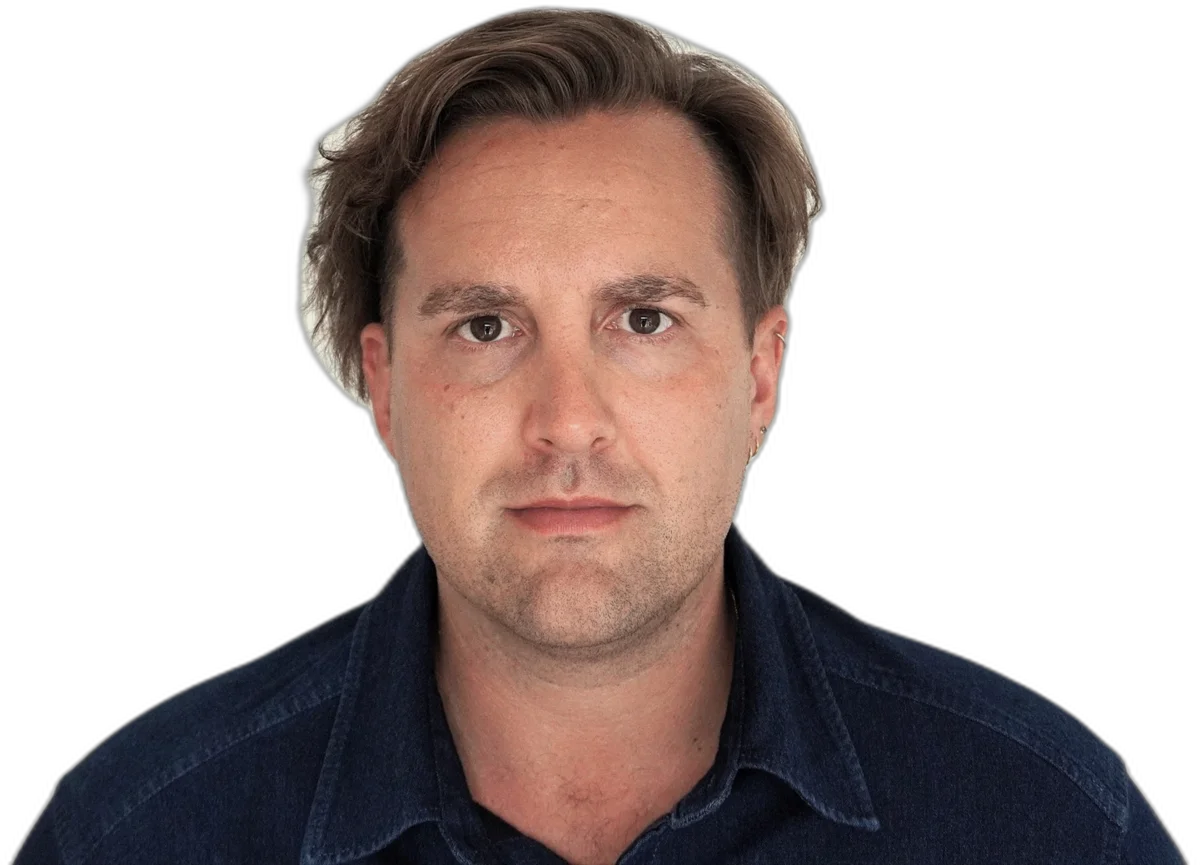
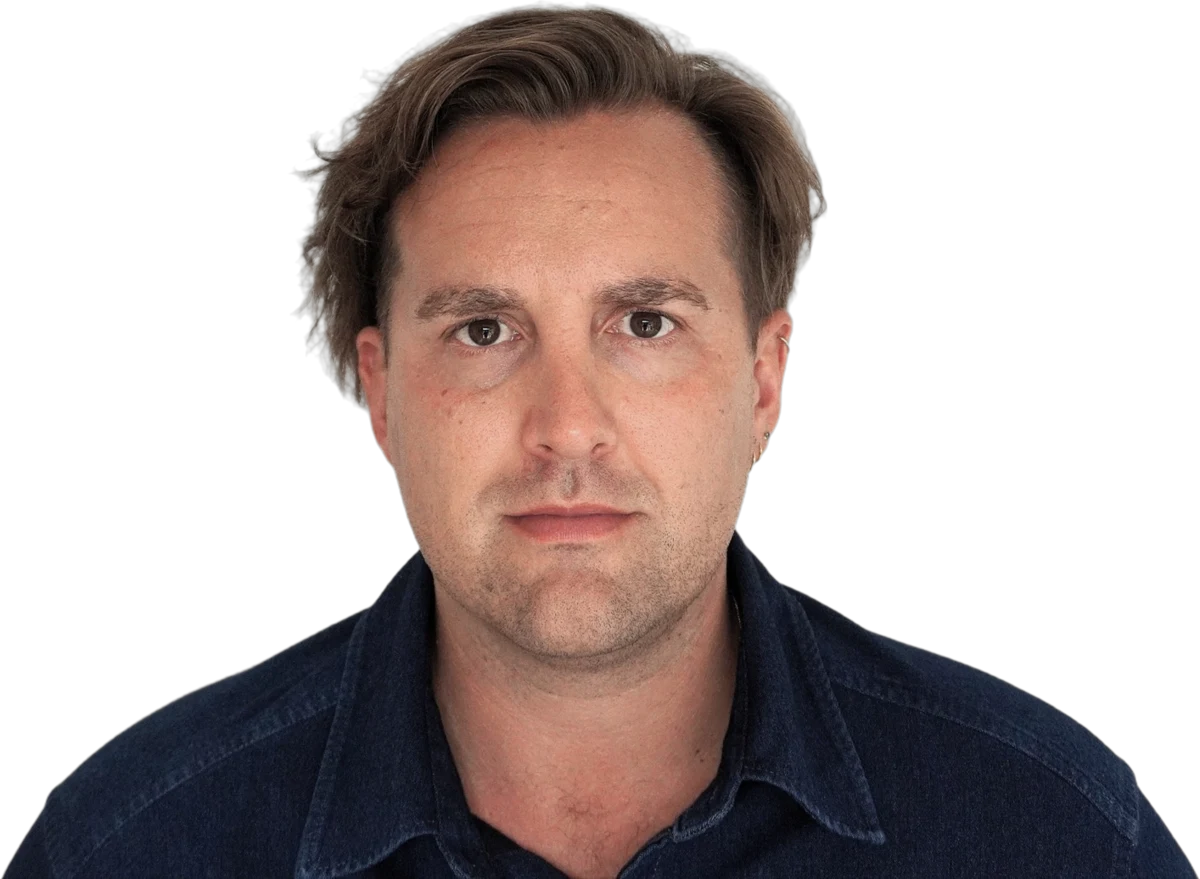
Improve hero cutout hair matte (BiRefNet) + decontaminate edge
The u2net cutout left a light fringe around the hair. Re-cut with the
BiRefNet-portrait model, which resolves fine hair strands far better, then
tightened the alpha ~1px to drop the residual contaminated outer ring. The
edge is now seamless on the paper ground (verified against navy too, where
any halo would show). Kept the desaturation + red-pull grade. Asset is now
1200x879 (matte bbox); markup height hints updated to match.

diff --git a/src/routes/(site)/+page.svelte b/src/routes/(site)/+page.svelte
@@ -31,7 +31,7 @@
     src="/img/chris-hero-cutout.webp"
     alt={home.hero.portraitAlt}
     width="1200"
-    height="865"
+    height="879"
     fetchpriority="high"
     class="pointer-events-none absolute bottom-0 right-0 z-0 hidden select-none object-contain object-bottom
            md:block md:w-[52%] md:max-w-[560px]
@@ -58,7 +58,7 @@
       src="/img/chris-hero-cutout.webp"
       alt={home.hero.portraitAlt}
       width="1200"
-      height="865"
+      height="879"
       class="-mb-12 mt-10 ml-auto block w-[78%] max-w-[340px] translate-x-[10%] select-none md:hidden"
     />
   </div>